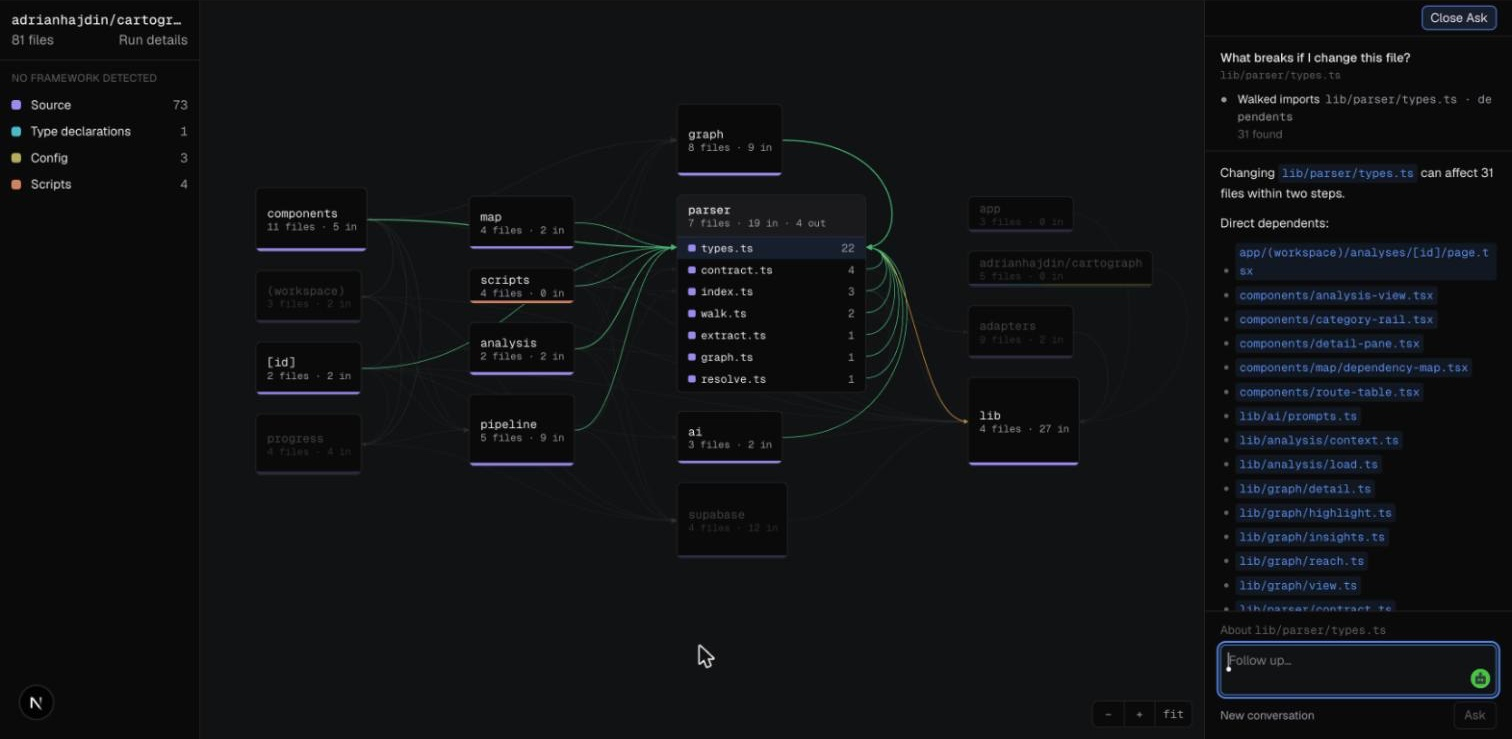
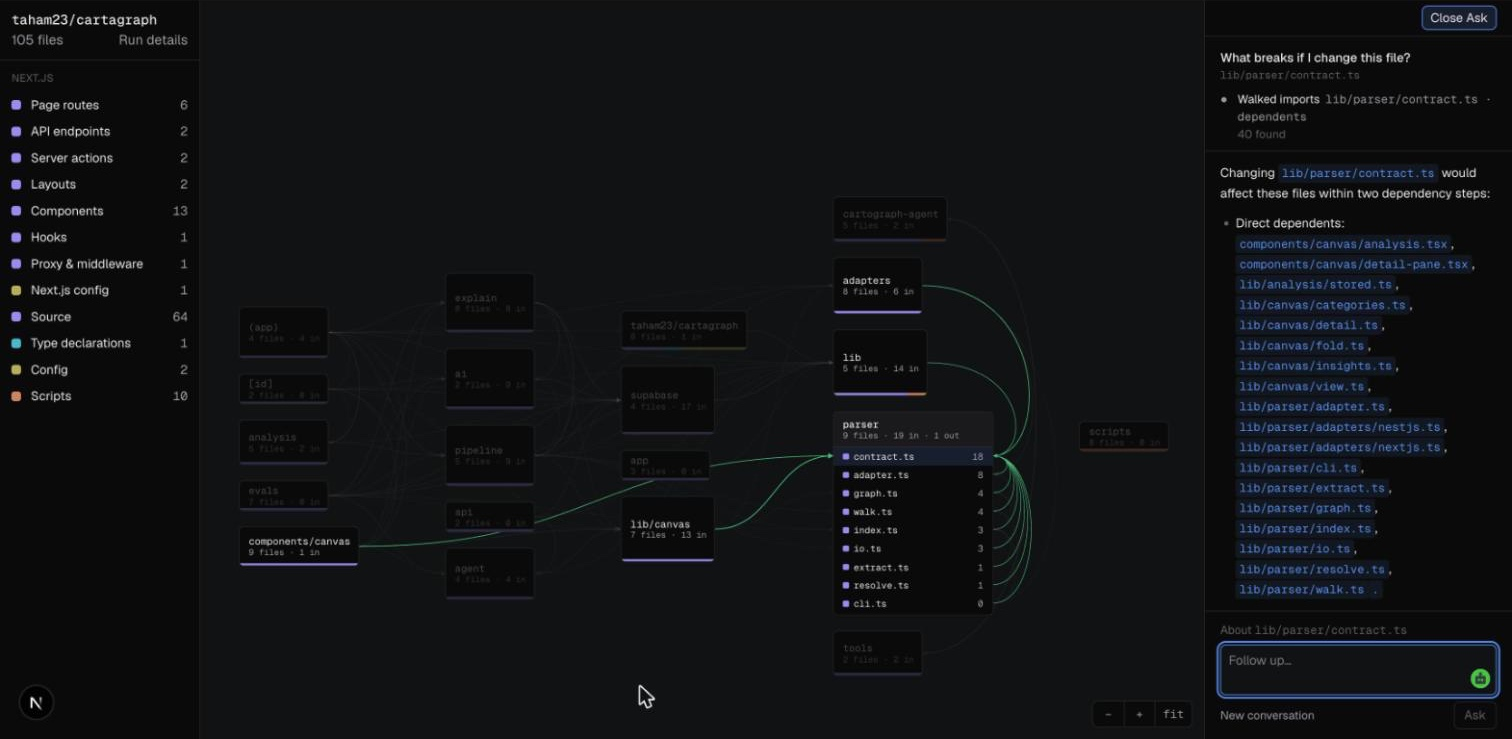
Use screenshots of this repository's own analysis in the README

diff --git a/README.md b/README.md
@@ -26,7 +26,7 @@ Click any file to see what it imports, what imports it, and what breaks if it ch
 
 <br>
 
-![The map of a repository: folders as boxes, imports as lines. lib/parser/types.ts is selected; the 22 files that import it are lit in green, and the pane lists its blast radius of 31 files within two levels.](docs/screenshots/map.jpg)
+![The map of a repository: folders as boxes, imports as lines. lib/parser/contract.ts is selected; the 18 files that import it are lit in green, and the pane lists its blast radius of 40 files within two levels.](docs/screenshots/map.jpg)
 
 </div>
 
@@ -48,7 +48,7 @@ Most AI code tools let a model *describe* the structure. Cartograph doesn't. **E
 
 <div align="center">
 
-![Ask mode: asked "What breaks if I change this file?" with lib/parser/types.ts selected, the agent walks its dependents, finds 31, the same number as the map's blast radius, and lists them as links into the map.](docs/screenshots/ask.jpg)
+![Ask mode: asked "What breaks if I change this file?" with lib/parser/contract.ts selected, the agent walks its dependents, finds 40, the same number as the map's blast radius, and lists them as links into the map.](docs/screenshots/ask.jpg)
 
 </div>
 
@@ -57,7 +57,7 @@ Most AI code tools let a model *describe* the structure. Cartograph doesn't. **E
 - **Real parsing.** Uses the TypeScript compiler to read every import, including path aliases, barrel files and `require()`.
 - **Security in the database.** Row-level security is switched on for every table automatically, so a forgotten rule shows nothing instead of everything.
 - **An agent that can't be tricked.** It never knows which analysis it's reading. A signed, 30-minute pass does, and the database checks it. A "read someone else's data" prompt hidden in a repo has nothing to work with.
-- **One source of truth.** The agent's lookups run the same code that draws the map, so they always agree (31 and 31 above).
+- **One source of truth.** The agent's lookups run the same code that draws the map, so they always agree (40 and 40 above).
 - **AI you can measure.** Every model call is traced and cached, answers are checked for made-up file paths, and the agent has its own eval.
 
 ## How it works
